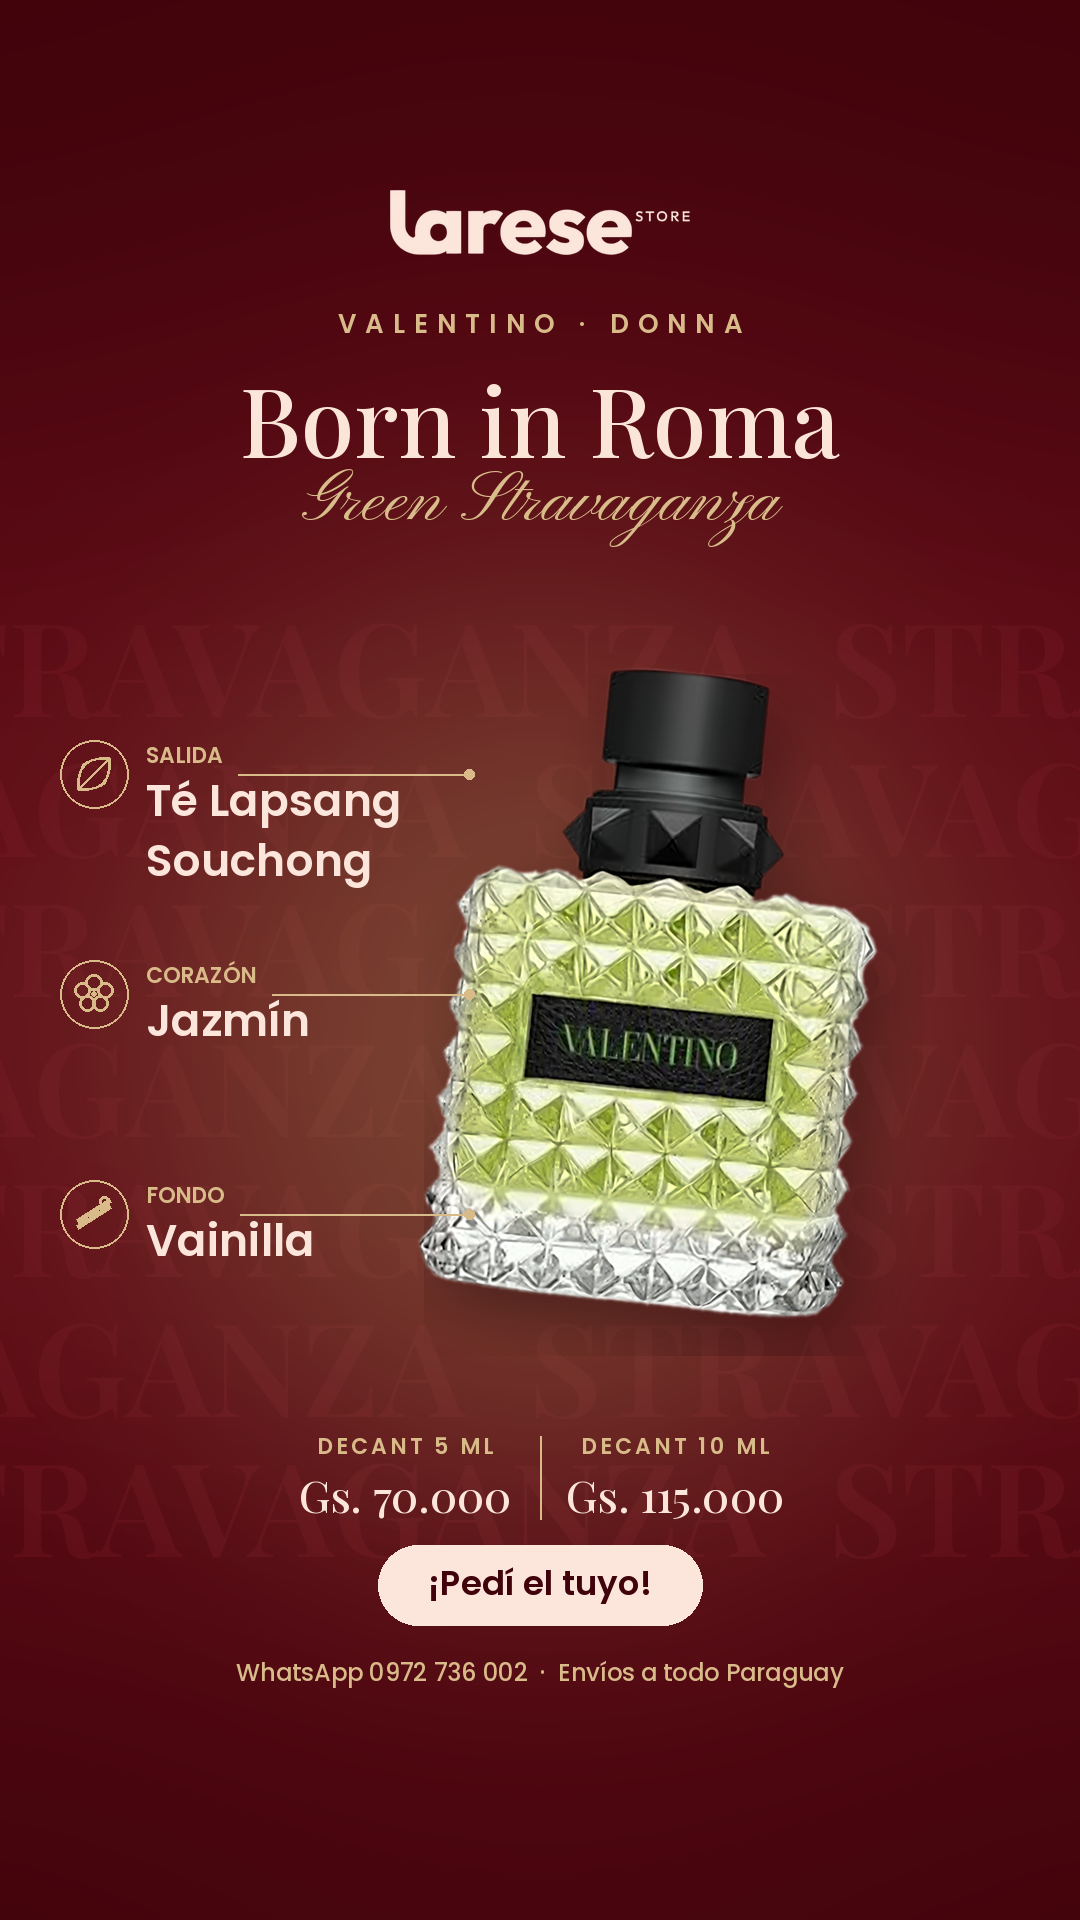
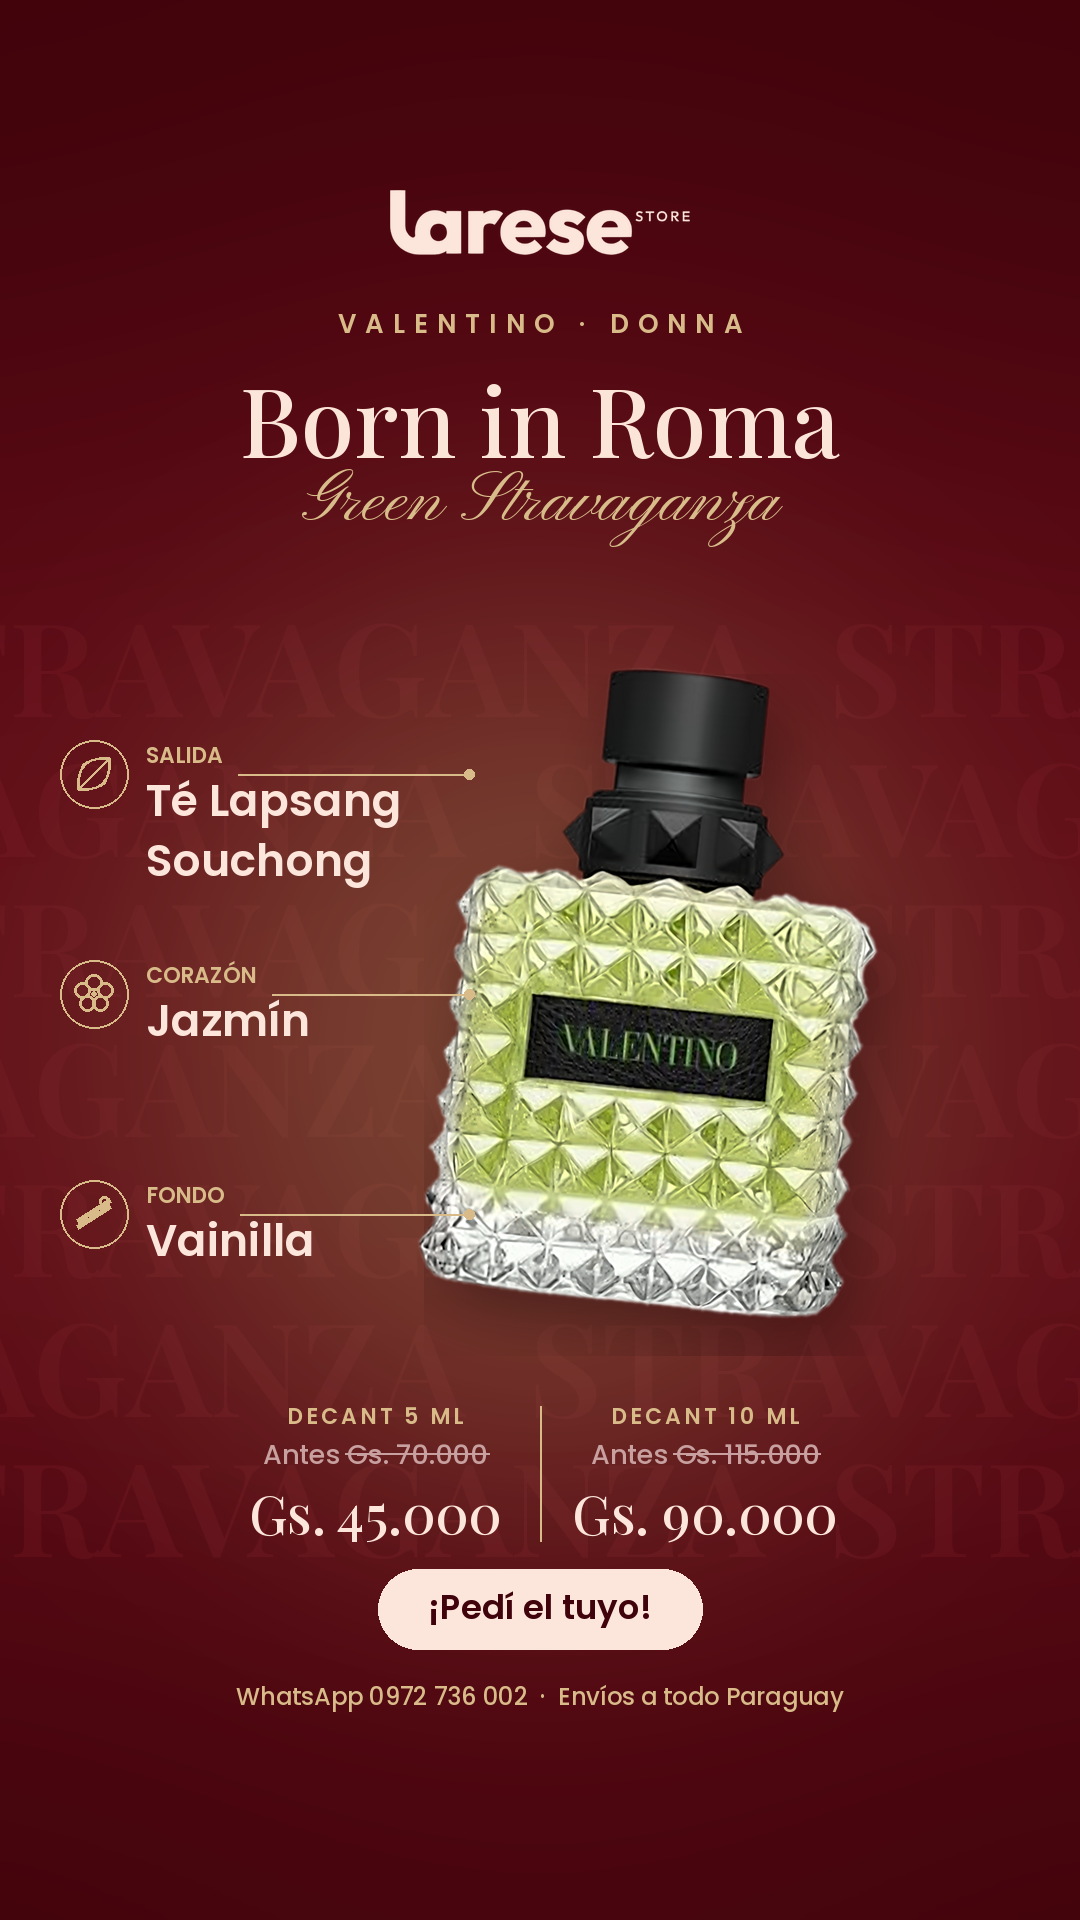
Green Stravaganza ad: promo prices 45.000 / 90.000 with old prices struck through
Claude-Session: https://claude.ai/code/session_01DnzkNLcZedFpQcyR6bg5VG

Changed region(s): [[0.2139, 0.7188, 0.7639, 0.9062]]

diff --git a/anuncio-green-stravaganza/crear.py b/anuncio-green-stravaganza/crear.py
@@ -27,16 +27,17 @@ VERDE = (0xB8, 0xD8, 0x7A)   # el verde del frasco, solo para un brillo suave de
 
 # notas de la página: salida, corazón, fondo
 NOTAS = [("SALIDA", "Té Lapsang\nSouchong", "te"), ("CORAZÓN", "Jazmín", "jazmin"), ("FONDO", "Vainilla", "vainilla")]
-PRECIOS = [("5 ML", 70000), ("10 ML", 115000)]
+# precio de promo y precio anterior (tachado), confirmados por la dueña el 21/11
+PRECIOS = [("5 ML", 45000, 70000), ("10 ML", 90000, 115000)]
 
 MEDIDAS = {
     # frasco: (cx, base, alto); notas: (x etiqueta, y etiqueta, lado de la línea)
     "historia": dict(tam=(1080, 1920), logo=(190, 300), tit=96, cur=70, marca=26, y_tit=330,
                      frasco=(540, 1330, 640), notas=[(60, 740, "izq"), (60, 960, "izq"), (60, 1180, "izq")],
-                     pre=(1430, 44, 22), iso=1640, glow=(540, 1050, 380, 420)),
+                     pre=(1400, 54, 22), iso=1640, glow=(540, 1050, 380, 420)),
     "post": dict(tam=(1080, 1350), logo=(50, 170), tit=78, cur=58, marca=22, y_tit=130,
                  frasco=(540, 1060, 560), notas=[(60, 440, "izq"), (60, 630, "izq"), (60, 820, "izq")],
-                 pre=(1110, 38, 19), iso=None, glow=(540, 800, 330, 360)),
+                 pre=(1060, 44, 19), iso=None, glow=(540, 800, 330, 360)),
 }
 
 
@@ -153,18 +154,26 @@ def armar(formato):
     d = ImageDraw.Draw(img)
     f_ml = cp.fuente(tm, b"SemiBold")
     f_pr = cp.fuente(tp, b"Bold")
-    ancho = max(d.textlength(cp.guaranies(v), font=f_pr) for _, v in PRECIOS)
-    for i, (ml, v) in enumerate(PRECIOS):
+    f_ant = cp.fuente(tp * 0.5, b"Medium")
+    alto_ant = cp.alto_linea(f_ant, 1.05)
+    ancho = max(d.textlength(cp.guaranies(v), font=f_pr) for _, v, _ in PRECIOS)
+    for i, (ml, v, antes) in enumerate(PRECIOS):
         px = cx + (i - 0.5) * (ancho + tp * 1.2)
         cp.txt(d, px, yp, "DECANT " + ml, f_ml, DORADO, esp=tm * 0.15)
-        cp.txt(d, px, yp + cp.alto_linea(f_ml, 1.1), cp.guaranies(v), f_pr, MARFIL)
-    d.line((cx, yp + 6, cx, yp + cp.alto_linea(f_ml, 1.1) + cp.alto_linea(f_pr, 0.9)), fill=DORADO, width=2)
+        ya = yp + cp.alto_linea(f_ml, 1.1)
+        t_ant = "Antes " + cp.guaranies(antes)
+        cp.txt(d, px, ya, t_ant, f_ant, (0xC8, 0xA0, 0xA0))
+        wa = d.textlength(t_ant, font=f_ant)
+        d.line((px - wa / 2 + d.textlength("Antes ", font=f_ant) - 2, ya + tp * 0.33,
+                px + wa / 2 + 2, ya + tp * 0.33), fill=(0xC8, 0xA0, 0xA0), width=2)
+        cp.txt(d, px, ya + alto_ant, cp.guaranies(v), f_pr, MARFIL)
+    d.line((cx, yp + 6, cx, yp + cp.alto_linea(f_ml, 1.1) + alto_ant + cp.alto_linea(f_pr, 0.9)), fill=DORADO, width=2)
 
     # botón y pie
     f_b = cp.fuente(34 * esc, b"SemiBold")
     tb = "¡Pedí el tuyo!"
     tw = d.textlength(tb, font=f_b)
-    cyb = yp + cp.alto_linea(f_ml, 1.1) + cp.alto_linea(f_pr, 1.0) + 60 * esc
+    cyb = yp + cp.alto_linea(f_ml, 1.1) + alto_ant + cp.alto_linea(f_pr, 1.0) + 60 * esc
     d.rounded_rectangle((cx - tw / 2 - 50 * esc, cyb - 40 * esc, cx + tw / 2 + 50 * esc, cyb + 40 * esc),
                         radius=40 * esc, fill=MARFIL)
     bb = f_b.getbbox(tb)
